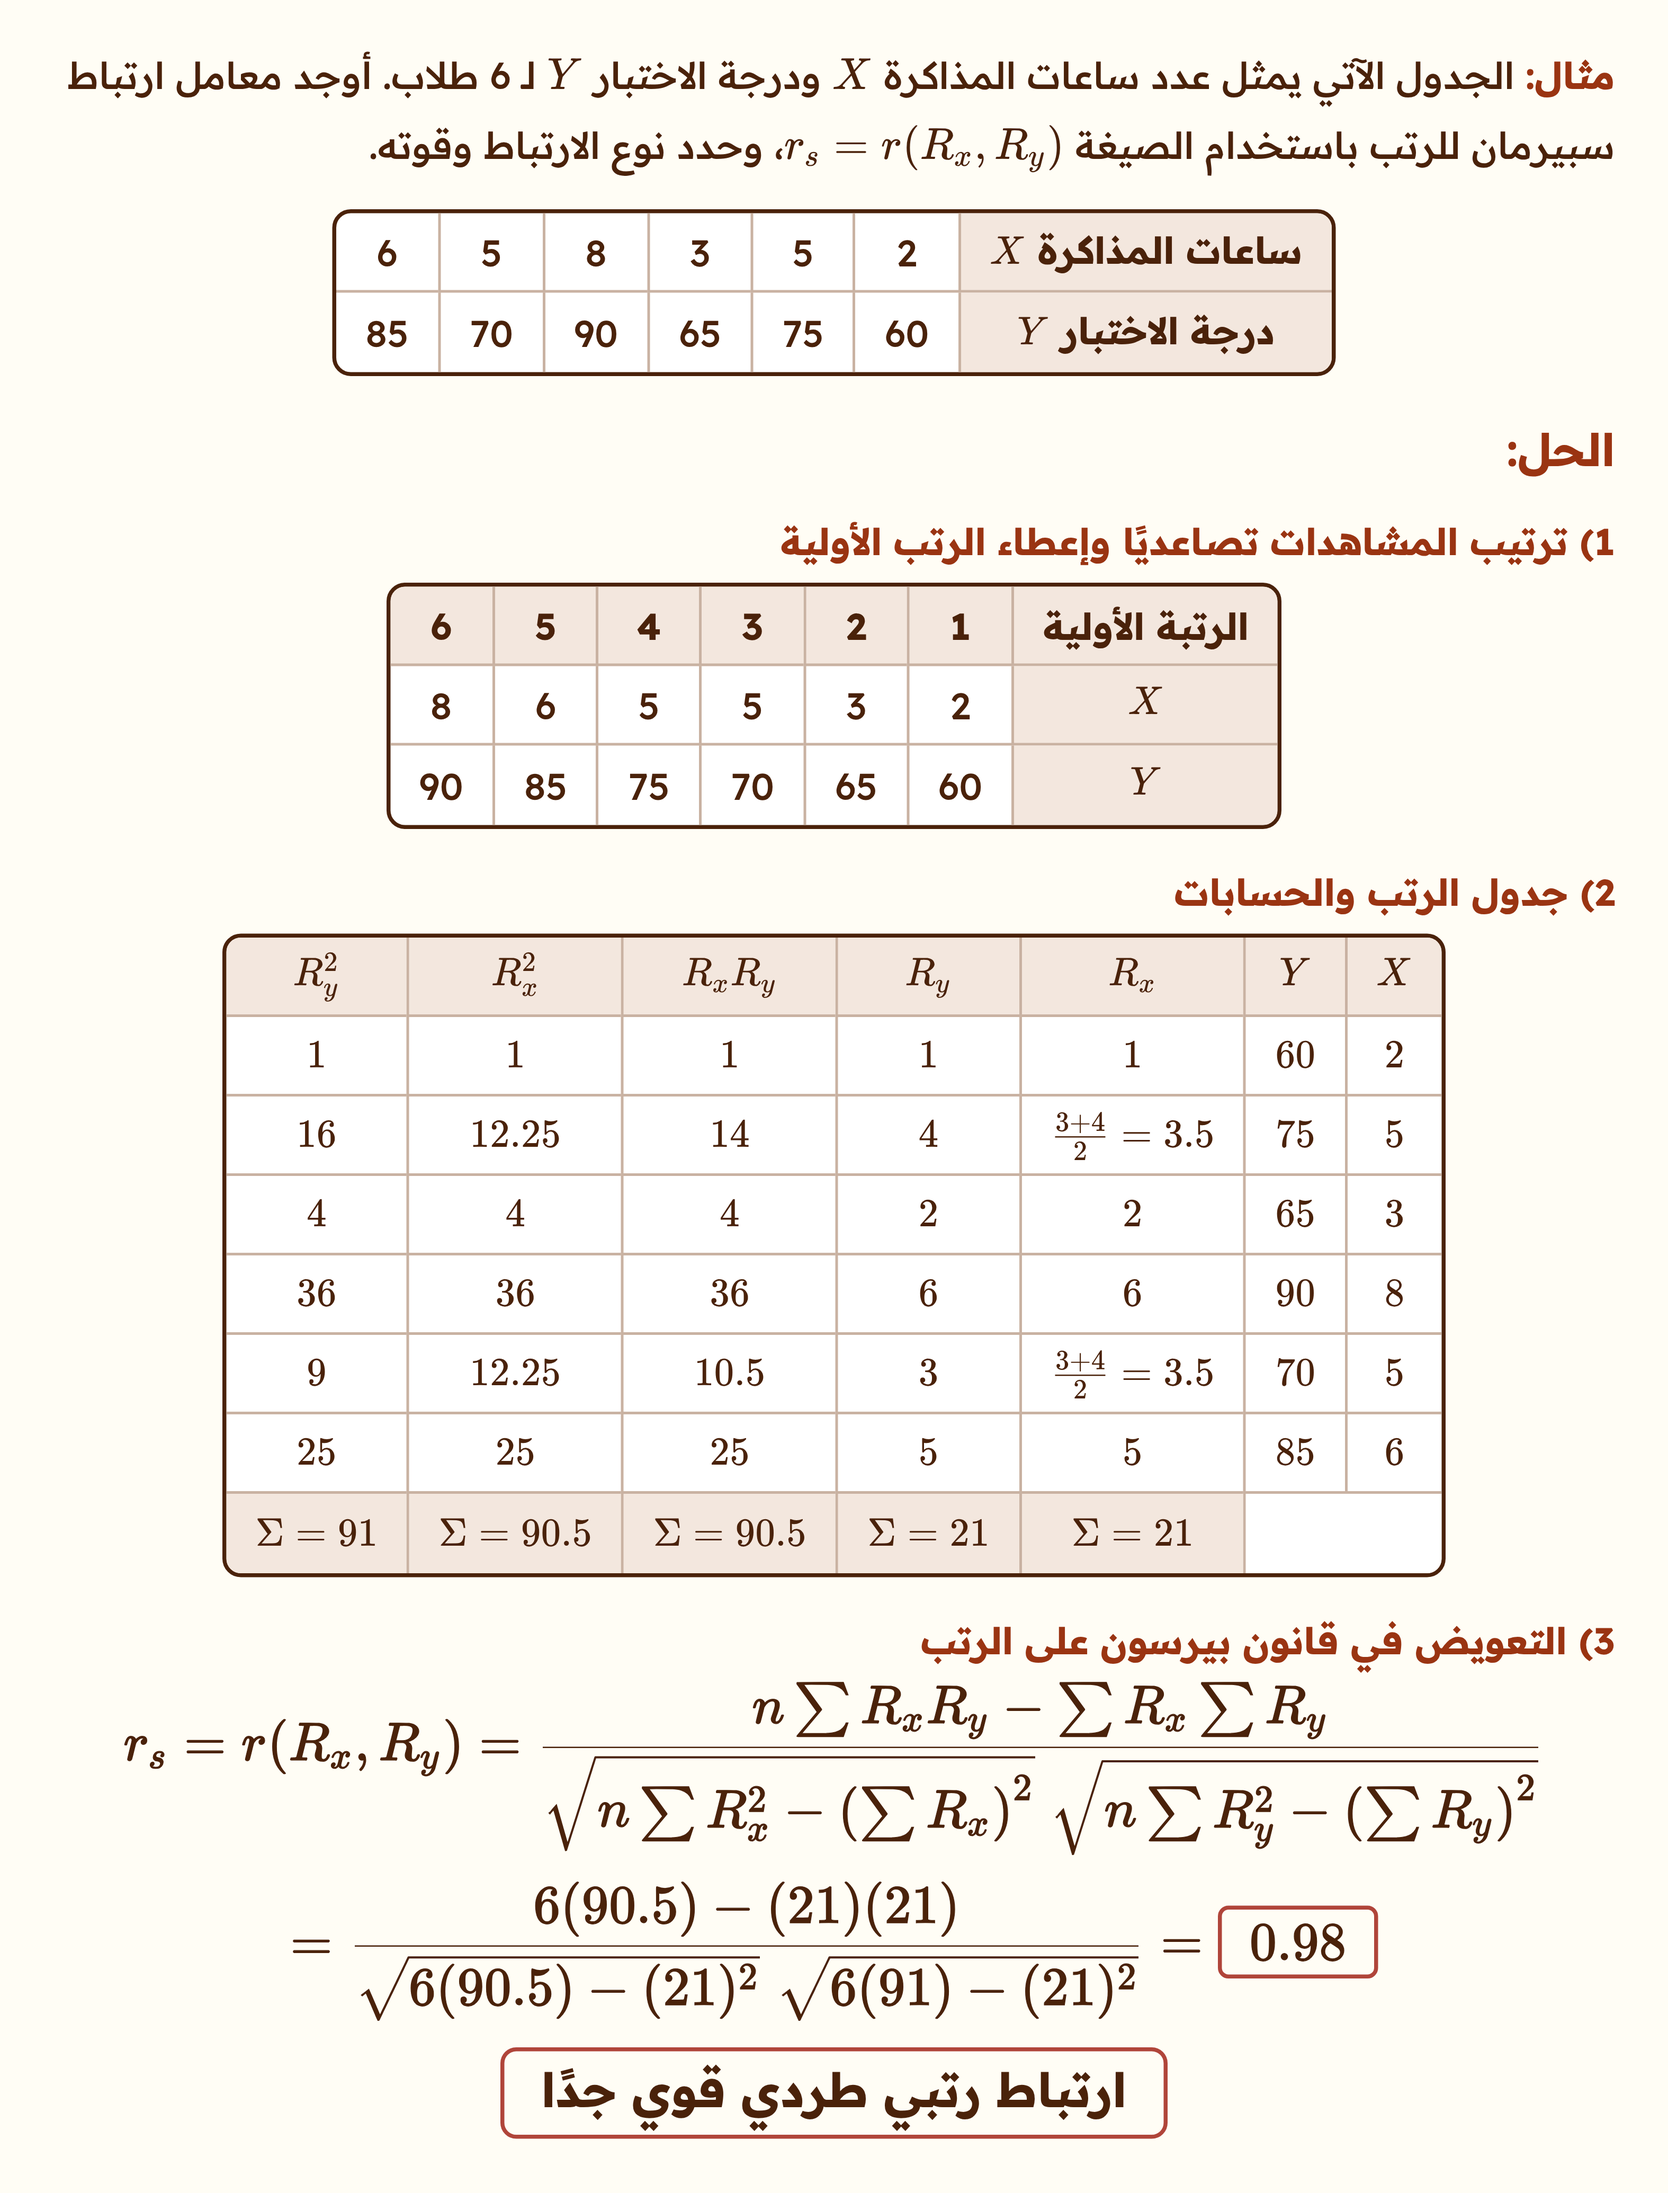
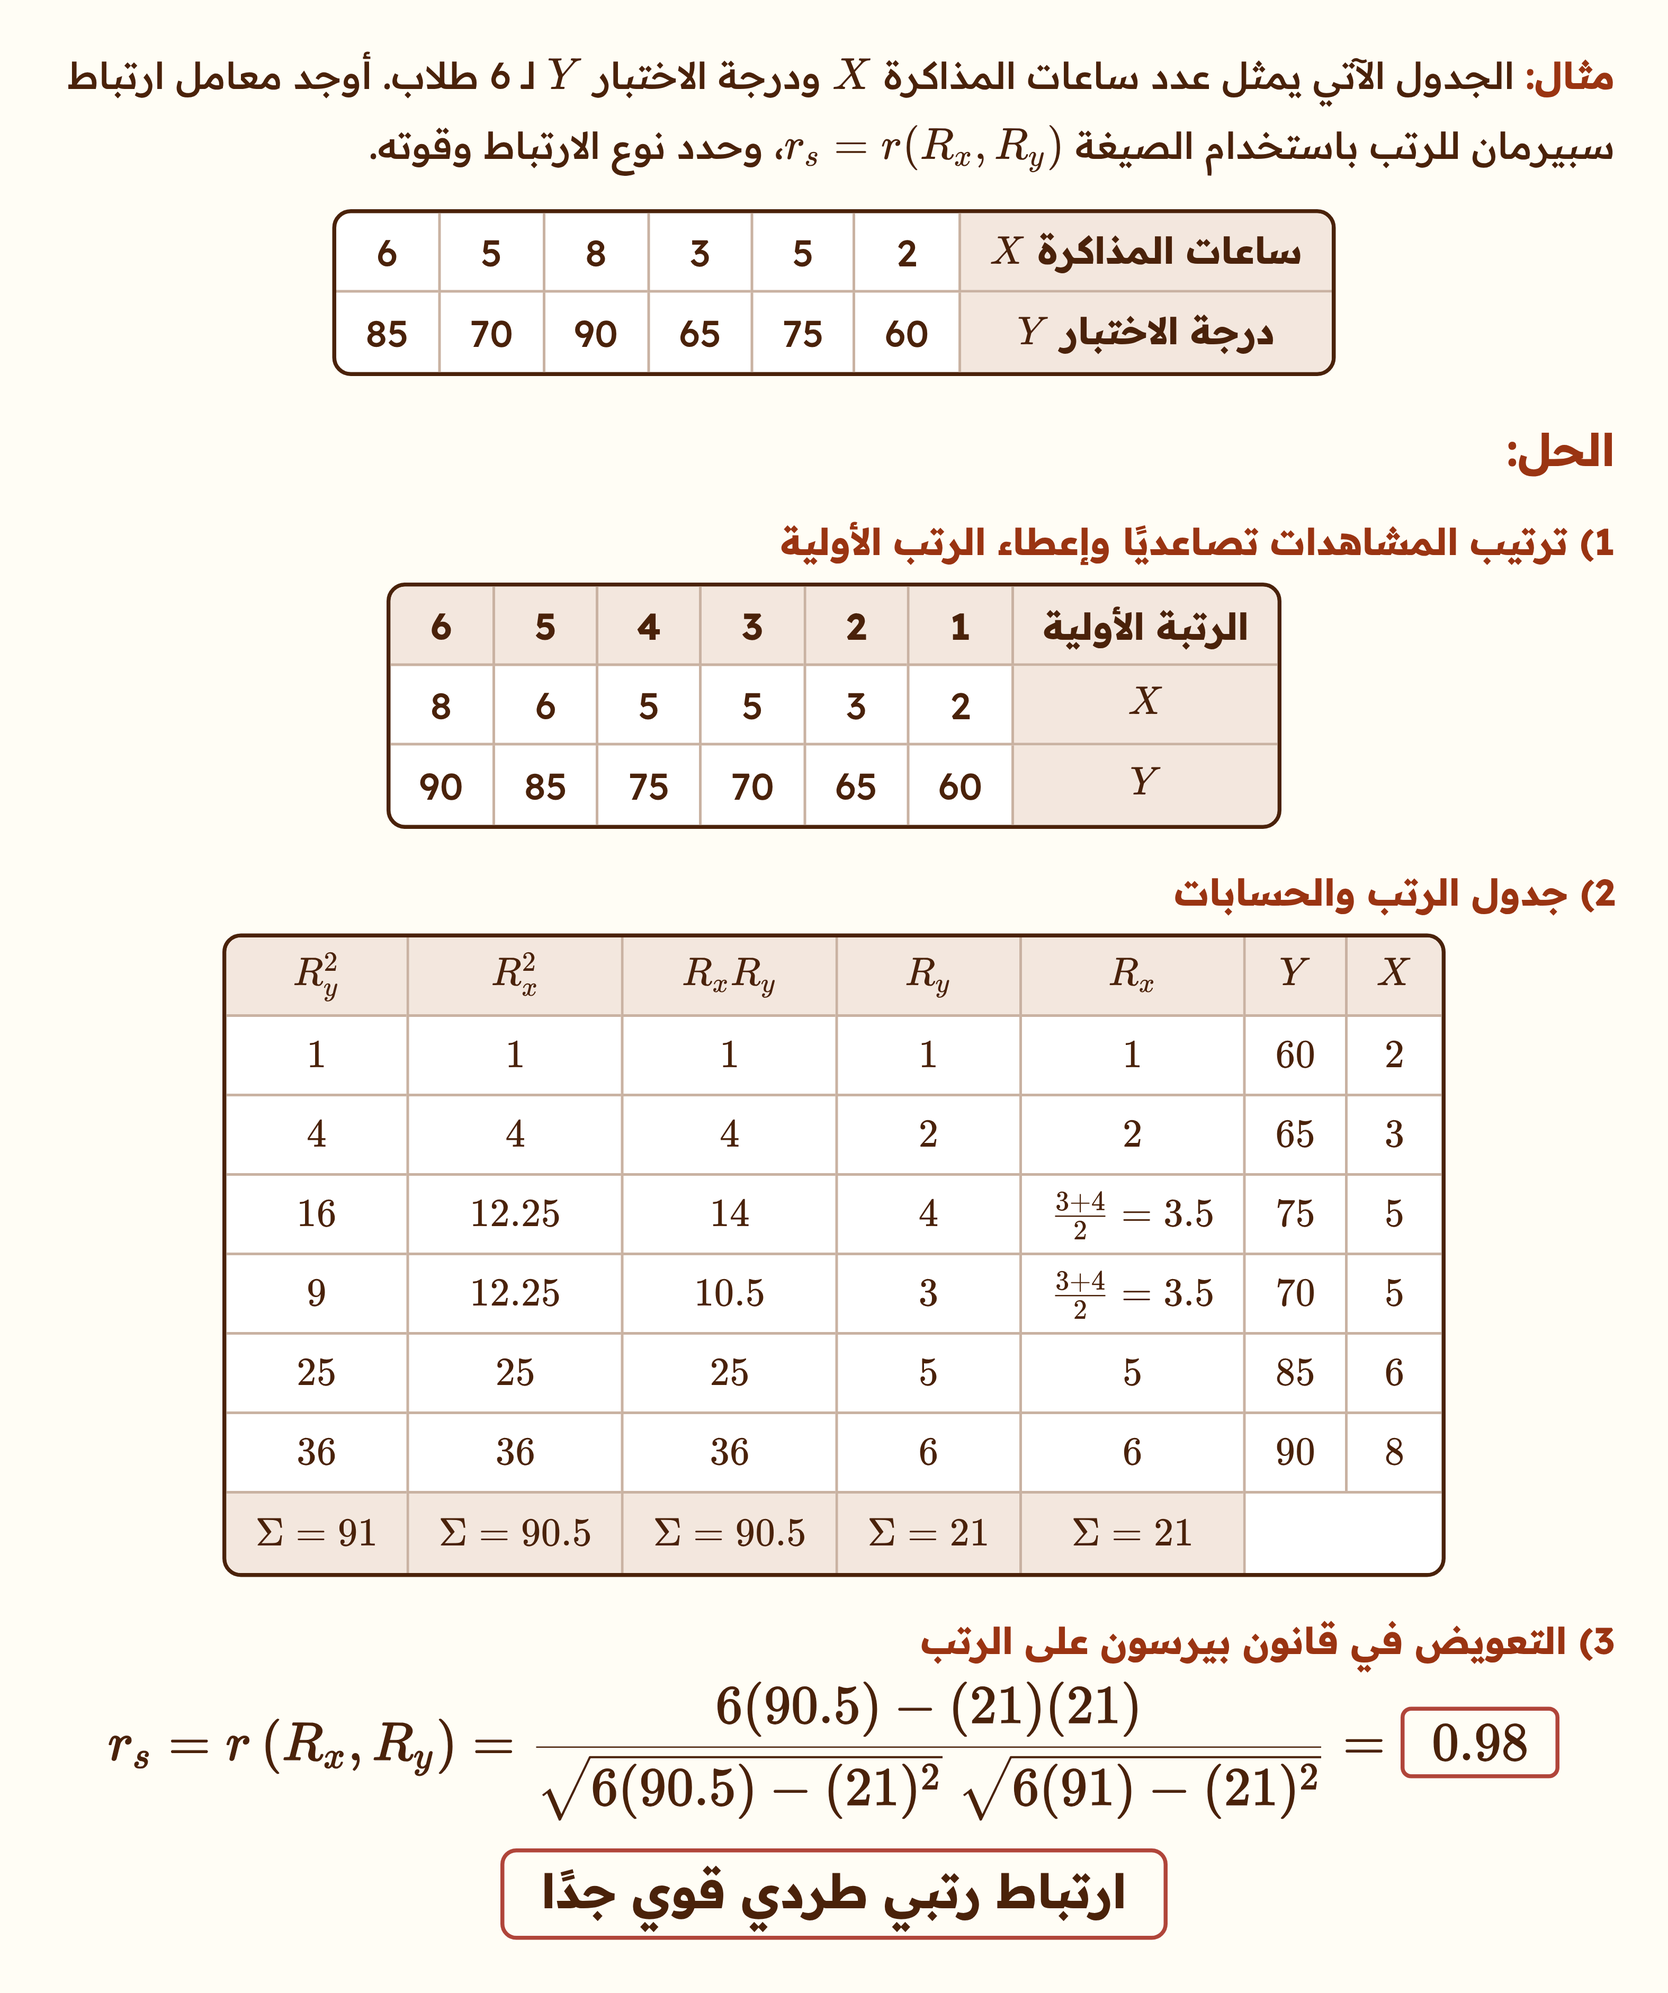
Exact Spearman example: rows sorted by X, formula as rs = r(Rx, Ry)
Claude-Session: https://claude.ai/code/session_01P2W4DViX2DDJL3Qd7qfdx4

Changed region(s): [[0.1244, 0.1866, 0.9644, 0.995], [0.0311, 0.0311, 0.9644, 0.1866], [0.0622, 0.8706, 0.0933, 0.9017]]

diff --git a/tools/statistics/ex_spearman_exact.js b/tools/statistics/ex_spearman_exact.js
@@ -9,6 +9,7 @@ function ranks(v){const s=v.map((x,i)=>[x,i]).sort((a,b)=>a[0]-b[0]);const r=[];
  while(i<s.length){let j=i;while(j+1<s.length&&s[j+1][0]===s[i][0])j++;const pos=[];for(let k=i;k<=j;k++)pos.push(k+1);
   for(let k=i;k<=j;k++)r[s[k][1]]={v:pos.reduce((a,b)=>a+b,0)/pos.length,pos};i=j+1;}return r;}
 const RX=ranks(X), RY=ranks(Y), rx=RX.map(r=>r.v), ry=RY.map(r=>r.v);
+const ORD=X.map((_,i)=>i).sort((a,b)=>X[a]-X[b]||a-b);
 const S=a=>a.reduce((p,q)=>p+q,0), XY=rx.map((a,i)=>a*ry[i]), X2=rx.map(a=>a*a), Y2=ry.map(a=>a*a);
 const [sx,sy,sxy,sx2,sy2]=[S(rx),S(ry),S(XY),S(X2),S(Y2)];
 const num=n*sxy-sx*sy, dx=n*sx2-sx*sx, dy=n*sy2-sy*sy, r=num/(Math.sqrt(dx)*Math.sqrt(dy));
@@ -27,11 +28,10 @@ const st1=`<h3>الحل:</h3><h4>1) ترتيب المشاهدات تصاعديً
 <tr><th class="h">${K('X')}</th>${sx_.map(v=>`<td>${v}</td>`).join('')}</tr><tr><th class="h">${K('Y')}</th>${sy_.map(v=>`<td>${v}</td>`).join('')}</tr></table>`;
 const st2=`<h4>2) جدول الرتب والحسابات</h4>
 <table class="t m"><tr class="hd">${['X','Y','R_x','R_y','R_xR_y','R_x^{2}','R_y^{2}'].map(h=>`<th>${K(h)}</th>`).join('')}</tr>
-${X.map((x,i)=>`<tr><td>${K(String(x))}</td><td>${K(String(Y[i]))}</td><td>${rk(RX[i])}</td><td>${rk(RY[i])}</td><td>${K(fmt(XY[i]))}</td><td>${K(fmt(X2[i]))}</td><td>${K(fmt(Y2[i]))}</td></tr>`).join('')}
+${ORD.map(i=>[X[i],i]).map(([x,i])=>`<tr><td>${K(String(x))}</td><td>${K(String(Y[i]))}</td><td>${rk(RX[i])}</td><td>${rk(RY[i])}</td><td>${K(fmt(XY[i]))}</td><td>${K(fmt(X2[i]))}</td><td>${K(fmt(Y2[i]))}</td></tr>`).join('')}
 <tr class="s"><td colspan="2"></td>${[sx,sy,sxy,sx2,sy2].map(v=>`<td>${K('\\Sigma='+fmt(v))}</td>`).join('')}</tr></table>`;
-const L1=String.raw`r_s=r(R_x,R_y)=\dfrac{n\sum R_xR_y-\sum R_x\sum R_y}{\sqrt{n\sum R_x^{2}-\left(\sum R_x\right)^{2}}\;\sqrt{n\sum R_y^{2}-\left(\sum R_y\right)^{2}}}`;
-const L2=String.raw`=\dfrac{${n}(${fmt(sxy)})-(${fmt(sx)})(${fmt(sy)})}{\sqrt{${n}(${fmt(sx2)})-(${fmt(sx)})^{2}}\;\sqrt{${n}(${fmt(sy2)})-(${fmt(sy)})^{2}}}=\fcolorbox{${BOX}}{transparent}{$\;${trunc(r,2)}\;$}`;
-const st3=`<h4>3) التعويض في قانون بيرسون على الرتب</h4><div class="eq">${K(L1,1)}</div><div class="eq">${K(L2,1)}</div>
+const L1=String.raw`r_s=r\left(R_x,R_y\right)=\dfrac{${n}(${fmt(sxy)})-(${fmt(sx)})(${fmt(sy)})}{\sqrt{${n}(${fmt(sx2)})-(${fmt(sx)})^{2}}\;\sqrt{${n}(${fmt(sy2)})-(${fmt(sy)})^{2}}}=\fcolorbox{${BOX}}{transparent}{$\;${trunc(r,2)}\;$}`;
+const st3=`<h4>3) التعويض في قانون بيرسون على الرتب</h4><div class="eq">${K(L1,1)}</div>
 <div class="ans"><span>${verdict}</span></div>`;
 const css=`@font-face{font-family:Rx;src:url(file://${FONTS}/Readex-500.ttf)}@font-face{font-family:Rx7;src:url(file://${FONTS}/Readex-700.ttf)}
 html,body{margin:0;background:#fffdf5}#w{width:1180px;padding:30px 40px 40px;color:${BR};direction:rtl;font:28px/1.9 Rx}
